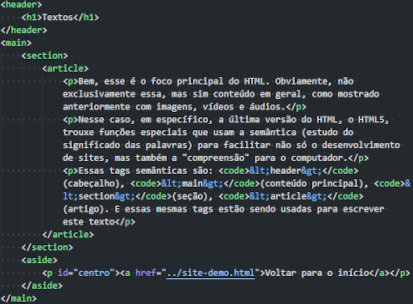
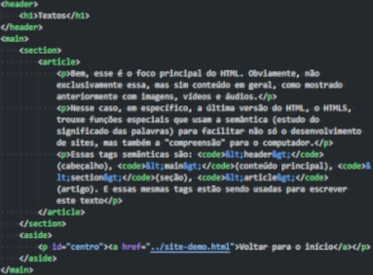
commit

diff --git a/paginas/textos.html b/paginas/textos.html
@@ -16,15 +16,16 @@
             <article>
                 <p>Bem, esse é o foco principal do HTML. Obviamente, não exclusivamente essa, mas sim conteúdo em geral, como mostrado anteriormente com imagens, vídeos e áudios.</p>
                 <p>Nesse caso, em específico, a última versão do HTML, o HTML5, trouxe funções especiais que usam a semântica (estudo do significado das palavras) para facilitar não só o desenvolvimento de sites, mas também a "compreensão" para o computador.</p>
-                <p>Essas tags semânticas são: <code>&lt;header&gt;</code>(cabeçalho), <code>&lt;main&gt;</code>(conteúdo principal), <code>&lt;section&gt;</code>(seção), <code>&lt;article&gt;</code>(artigo). E essas mesmas tags estão sendo usadas para escrever este texto</p>
+                <p>Essas tags semânticas são: <strong><code>&lt;header&gt;</code></strong>(cabeçalho), <strong><code>&lt;main&gt;</code></strong>(conteúdo principal), <strong><code>&lt;section&gt;</code></strong>(seção), <strong><code>&lt;article&gt;</code></strong>(artigo). E essas mesmas tags estão sendo usadas para escrever este texto</p>
                 <picture>
                     <source media="(max-width: 600px)" srcset="../imagens/imagem-de-codigo-p.jpg">
                     <img src="../imagens/imagem-de-codigo.jpg" alt="imagem mostrando códigos em HTML">
                 </picture>
+                <p>Também há tags semânticas que estão para dar sentindo a uma palavra. Como o caso do <strong><code>&lt;strong&gt;</code></strong>, que serve para dizer que algo é importante, <strong><code>&lt;b&gt;</code></strong>, o negrito, que diz que algo é muito importante, <strong><code>&lt;h1&gt;</code></strong>-<strong><code>&lt;h6&gt;</code></strong>, os títulos e cada um com sua hierarquia, <strong><code>&lt;p&gt;</code></strong>, os parágrafos, entre muitos outros.</p>
             </article>
         </section>
         <aside>
-            <p id="centro"><a href="../site-demo.html">Voltar para o início</a></p>
+            <p id="centro">&#x1F3E0;<a href="../site-demo.html"> Voltar para o início</a>&#x1F3E0;</p>
         </aside>
     </main>
     <footer>Site feito por Edgar Augusto | Instagram: <a href="https://www.instagram.com/ed_ed001/" class="branco">@ed_ed001</a> | Repositório: <a href="https://github.com/eded001" class="branco">eded001</a></footer>

diff --git a/paginas/links.html b/paginas/links.html
@@ -14,13 +14,13 @@
     <main>
         <section>
             <article>
-                <p>Com tag <code>&lt;a&gt;</code> é possível adicionar um link no documento. Esse link poderá levar para um outro endereço ou um arquivo <code>HTML</code> dentro do documento, tal como tá sendo usado neste site.</p>
-                <p>É capaz de ter links que não levam a nenhum endereço. Mas outros levam a uma URL(endereço). Utilizando o atributo <code>href</code>, de valor "URL" na tag de abertura <code>&lt;a href&gt;</code> é possível colocar um link.</p>
+                <p>Com a tag <strong><code>&lt;a&gt;</code></strong> é possível adicionar um link no documento. Esse link poderá levar para um outro endereço ou um arquivo <strong><code>HTML</code></strong> dentro do documento, tal como tá sendo usado neste site.</p>
+                <p>É capaz de ter links que não levam a nenhum endereço. Mas outros levam a uma URL (endereço). Utilizando o atributo <strong><code>&lt;href&gt;</code></strong>, de valor "URL" na tag de abertura <strong><code>&lt;a href&gt;</code></strong> é possível colocar um link.</p>
                 <p class="centro"><a href="#" id="link">URL não endereçada(#)</a> | <a href="https://www.instagram.com/ed_ed001/" id="link"> URL endereçada(Instagram)</a></p>
             </article>
         </section>
         <aside>
-            <p class="centro"><a href="../site-demo.html">Voltar para o início</a></p>
+            <p id="centro">&#x1F3E0;<a href="../site-demo.html"> Voltar para o início</a>&#x1F3E0;</p>
         </aside>
     </main>
     <footer>Site feito por Edgar Augusto | Instagram: <a href="https://www.instagram.com/ed_ed001/" class="branco">@ed_ed001</a> | Repositório: <a href="https://github.com/eded001" class="branco">eded001</a></footer>

diff --git a/paginas/imagens.html b/paginas/imagens.html
@@ -13,7 +13,7 @@
     </header>
     <main>
         <article>
-            <p>Usando a tag <code>&lt;img&gt;</code> é possível inserir uma imagem, de diferentes formatos(JPEG, PNG, GIF...), no documento. Também pode-se usar <code>&lt;picture&gt;</code> e o <code>&lt;figcaption&gt;</code> para melhorar sua experiência, de modo que altere a estrutura da imagem.</p>
+            <p>Usando a tag <strong><code>&lt;img&gt;</code></strong> é possível inserir uma imagem, de diferentes formatos (JPEG, PNG, GIF...), no documento. Também pode-se usar <strong><code>&lt;picture&gt;</code></strong> e o <strong><code>&lt;figcaption&gt;</code></strong> para melhorar sua experiência, de modo que altere a estrutura da imagem.</p>
                 <picture>
                     <source media="(max-width: 700px)" srcset="../imagens/felipe-p.jpg">
                     <img src="../imagens/felipe.jpg" alt="Felipe hacker">
@@ -21,7 +21,7 @@
                 <p>Usando essas imagens é sempre bom ter a responsividade, que é basicamente adaptar as imagens ao tamanho da tela do seu dispositivo, podendo ser desde uma televisão até um celular.</p>
         </article>
         <aside>
-            <p id="centro"><a href="../site-demo.html">Voltar para o início</a></p>
+            <p id="centro">&#x1F3E0;<a href="../site-demo.html"> Voltar para o início</a>&#x1F3E0;</p>
         </aside>
     </main>
     <footer>Site feito por Edgar Augusto | Instagram: <a href="https://www.instagram.com/ed_ed001/" class="branco">@ed_ed001</a> | Repositório: <a href="https://github.com/eded001" class="branco">eded001</a></footer>

diff --git a/paginas/videos.html b/paginas/videos.html
@@ -14,7 +14,7 @@
     <main>
         <section>
             <article>
-                <p>Usando a tag <code>&lt;video&gt;</code> é possível inserir um vídeo, de diferentes formatos(.MP4, WebpM, OGG...), no documento. É possível usar também a tag <code>&lt;source&gt;</code> para abrir outros formatos caso o seu navegador não suporte.</p>
+                <p>Usando a tag <strong><code>&lt;video&gt;</code></strong> é possível inserir um vídeo, de diferentes formatos (.MP4, WebpM, OGG...), no documento. É possível usar também a tag <strong><code>&lt;source&gt;</code></strong> para abrir outros formatos caso o seu navegador não suporte.</p>
             </article>
             <video width="314" height="240" controls>
                 <source src="../videos/enter-sandman.mp4" type="video/mp4">
@@ -22,7 +22,7 @@
             </video>
         </section>
         <aside>
-            <p id="centro"><a href="../site-demo.html">Voltar para o início</a></p>
+            <p id="centro">&#x1F3E0;<a href="../site-demo.html"> Voltar para o início</a>&#x1F3E0;</p>
         </aside>
     </main>
     <footer>Site feito por Edgar Augusto | Instagram: <a href="https://www.instagram.com/ed_ed001/" class="branco">@ed_ed001</a> | Repositório: <a href="https://github.com/eded001" class="branco">eded001</a></footer>

diff --git a/paginas/audios.html b/paginas/audios.html
@@ -14,7 +14,7 @@
     <main>
         <section>
             <article>
-                <p>A tag <code>&lt;audio&gt;</code> nos possibilita colocar áudios no documento, também podendo ter diferentes formatos(MP3, OGG, WAV)</p>
+                <p>A tag <strong><code>&lt;audio&gt;</code></strong> nos possibilita colocar áudios no documento, também podendo ter diferentes formatos (MP3, OGG, WAV)</p>
                 <audio controls>
                     <source src="../audios/cavalo.mp3" type="audio/mpeg">
                     <source src="../audios/cavalo.ogg" type="audio/ogg">
@@ -58,7 +58,7 @@
             </article>
         </section>
         <aside>
-            <p id="centro"><a href="../site-demo.html">Voltar para o início</a></p>
+            <p id="centro">&#x1F3E0;<a href="../site-demo.html"> Voltar para o início</a>&#x1F3E0;</p>
         </aside>
     </main>
     <footer>Site feito por Edgar Augusto | Instagram: <a href="https://www.instagram.com/ed_ed001/" class="branco">@ed_ed001</a> | Repositório: <a href="https://github.com/eded001" class="branco">eded001</a></footer>

diff --git a/estilos/videos.css b/estilos/videos.css
@@ -78,6 +78,13 @@ article {
     padding: 2px 10px;
 }
 
+code {
+    background-color: #eee;
+    border-radius: 3px;
+    font-family: courier, monospace;
+    padding: 0 3px;
+}
+
 p {
     text-align: justify;
     text-indent: 20px;
@@ -97,6 +104,12 @@ video {
     border-radius: 5px;
 }
 
+aside {
+    background-color: black;
+    border-bottom-left-radius: 5px;
+    border-bottom-right-radius: 5px;
+}
+
 #centro {
     text-align: center;
 
@@ -106,7 +119,7 @@ video {
 a {
     text-decoration: none;
 
-    color: black;
+    color: white;
 }
 
 a:hover {

diff --git a/estilos/audios.css b/estilos/audios.css
@@ -78,6 +78,13 @@ article {
     padding: 2px 10px;
 }
 
+code {
+    background-color: #eee;
+    border-radius: 3px;
+    font-family: courier, monospace;
+    padding: 0 3px;
+}
+
 p {
     text-align: justify;
     text-indent: 20px;
@@ -95,6 +102,12 @@ audio {
     margin: 1% 0.5%;
 }
 
+aside {
+    background-color: black;
+    border-bottom-left-radius: 5px;
+    border-bottom-right-radius: 5px;
+}
+
 #centro {
     text-align: center;
 
@@ -104,7 +117,7 @@ audio {
 a {
     text-decoration: none;
 
-    color: black;
+    color: white;
 }
 
 a:hover {

diff --git a/estilos/imagens.css b/estilos/imagens.css
@@ -76,6 +76,13 @@ article {
     padding: 2px 10px;
 }
 
+code {
+    background-color: #eee;
+    border-radius: 3px;
+    font-family: courier, monospace;
+    padding: 0 3px;
+}
+
 p {
     text-align: justify;
     text-indent: 20px;
@@ -94,6 +101,12 @@ img {
     border-radius: 5px;
 }
 
+aside {
+    background-color: black;
+    border-bottom-left-radius: 5px;
+    border-bottom-right-radius: 5px;
+}
+
 #centro {
     text-align: center;
 
@@ -103,7 +116,7 @@ img {
 a {
     text-decoration: none;
 
-    color: black;
+    color: white;
 }
 
 a:hover {

diff --git a/estilos/textos.css b/estilos/textos.css
@@ -78,6 +78,13 @@ article {
     padding: 2px 10px;
 }
 
+code {
+    background-color: #eee;
+    border-radius: 3px;
+    font-family: courier, monospace;
+    padding: 0 3px;
+}
+
 p {
     text-align: justify;
     text-indent: 20px;
@@ -95,6 +102,12 @@ img {
     border-radius: 5px;
 }
 
+aside {
+    background-color: black;
+    border-bottom-left-radius: 5px;
+    border-bottom-right-radius: 5px;
+}
+
 #centro {
     text-align: center;
 
@@ -104,7 +117,7 @@ img {
 a {
     text-decoration: none;
 
-    color: black;
+    color: white;
 }
 
 a:hover {

diff --git a/estilos/links.css b/estilos/links.css
@@ -88,7 +88,17 @@ p {
     padding: 10px 0px;
 }
 
+aside {
+    background-color: black;
+    border-bottom-left-radius: 5px;
+    border-bottom-right-radius: 5px;
+}
+
 .centro {
+    text-align: center;
+}
+
+#centro {
     text-align: center;
 
     font-family: var(--fonte-padrao);
@@ -101,7 +111,7 @@ p {
 a {
     text-decoration: none;
 
-    color: black;
+    color: white;
 }
 
 a:hover {
